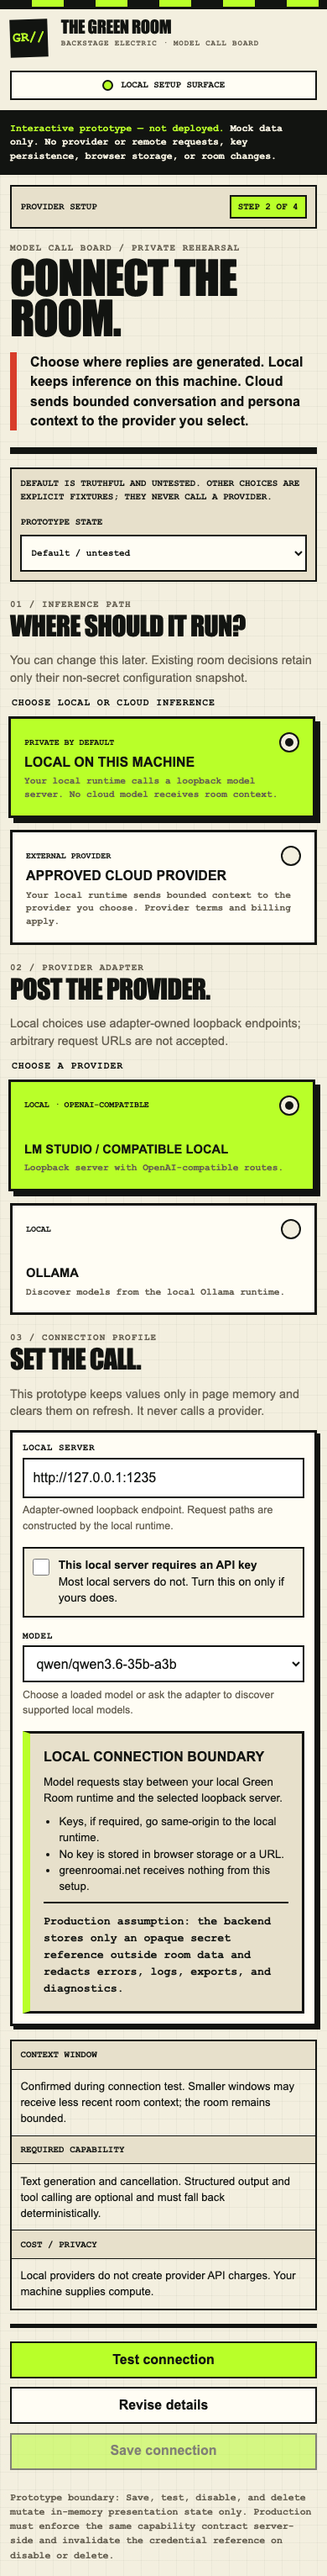
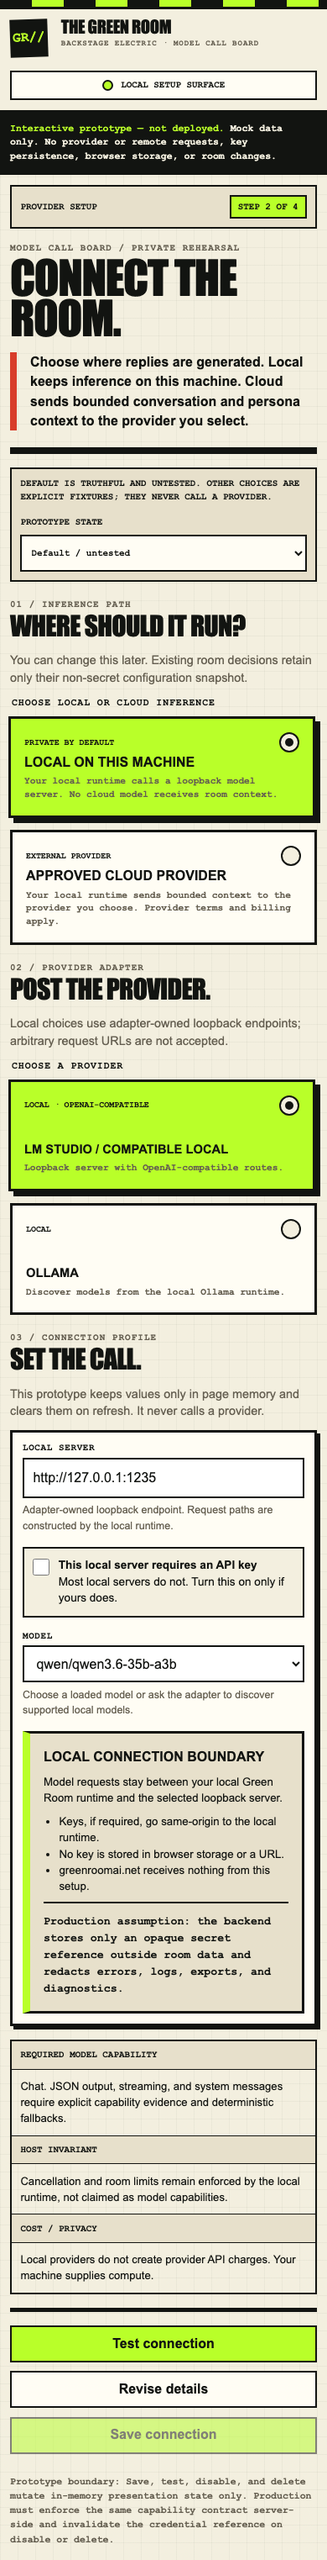
[verified] fix: align provider setup prototype with contracts

diff --git a/design/prototypes/provider-setup/index.html b/design/prototypes/provider-setup/index.html
@@ -35,17 +35,17 @@
 <section class="section" aria-labelledby="provider-title"><div class="section-head"><div><p class="kicker">02 / provider adapter</p><h2 class="section-title" id="provider-title">Post the provider.</h2></div><p class="section-help" id="provider-help">Local choices use adapter-owned loopback endpoints; arbitrary request URLs are not accepted.</p></div><fieldset class="choice-group"><legend>Choose a provider</legend><div class="provider-grid" id="provider-grid">
 <label class="choice" data-path="local"><input type="radio" name="provider" value="lmstudio" checked><span class="choice-top"><span class="choice-kind">Local · OpenAI-compatible</span><span class="radio-dot" aria-hidden="true"></span></span><strong>LM Studio / compatible local</strong><small>Loopback server with OpenAI-compatible routes.</small></label>
 <label class="choice" data-path="local"><input type="radio" name="provider" value="ollama"><span class="choice-top"><span class="choice-kind">Local</span><span class="radio-dot" aria-hidden="true"></span></span><strong>Ollama</strong><small>Discover models from the local Ollama runtime.</small></label>
-<label class="choice" data-path="cloud" hidden><input type="radio" name="provider" value="openai-cloud"><span class="choice-top"><span class="choice-kind">Approved cloud definition</span><span class="radio-dot" aria-hidden="true"></span></span><strong>OpenAI-compatible cloud</strong><small>Known provider definition; no arbitrary request URL.</small></label>
+<label class="choice" data-path="cloud" hidden><input type="radio" name="provider" value="openai-cloud"><span class="choice-top"><span class="choice-kind">Approved cloud definition</span><span class="radio-dot" aria-hidden="true"></span></span><strong>OpenAI</strong><small>Approved OpenAI definition; no arbitrary request URL.</small></label>
 <label class="choice" data-path="cloud" hidden><input type="radio" name="provider" value="anthropic"><span class="choice-top"><span class="choice-kind">Approved cloud definition</span><span class="radio-dot" aria-hidden="true"></span></span><strong>Anthropic</strong><small>Anthropic adapter and supported model IDs.</small></label>
 </div></fieldset></section>
 <section class="section" aria-labelledby="connection-title"><div class="section-head"><div><p class="kicker">03 / connection profile</p><h2 class="section-title" id="connection-title" tabindex="-1">Set the call.</h2></div><p class="section-help">This prototype keeps values only in page memory and clears them on refresh. It never calls a provider.</p></div><div class="setup-card"><div class="fields">
-<div class="field" id="endpoint-field"><label for="endpoint">Local server</label><input id="endpoint" value="http://127.0.0.1:1235" readonly aria-describedby="endpoint-hint"><p class="field-hint" id="endpoint-hint">Adapter-owned loopback endpoint. Request paths are constructed by the local runtime.</p></div>
+<div class="field" id="endpoint-field"><label for="endpoint" id="endpoint-label">Local server</label><input id="endpoint" value="http://127.0.0.1:1235" readonly aria-describedby="endpoint-hint"><p class="field-hint" id="endpoint-hint">Adapter-owned loopback endpoint. Request paths are constructed by the local runtime.</p></div>
 <label class="toggle" id="local-key-toggle"><input id="needs-local-key" type="checkbox"><span><strong>This local server requires an API key</strong><br>Most local servers do not. Turn this on only if yours does.</span></label>
-<div class="field" id="key-field" hidden><label for="provider-key">Local server API key</label><input id="provider-key" type="password" autocomplete="off" spellcheck="false" placeholder="Enter key for this connection test" aria-describedby="key-hint"><p class="field-hint" id="key-hint">Sent same-origin from this locally served page to your local Green Room runtime, then only to the selected provider endpoint. Never sent to greenroomai.net or saved in browser storage.</p></div>
+<div class="field" id="key-field" hidden><label for="provider-key" id="key-label">Local server API key</label><input id="provider-key" type="password" autocomplete="off" spellcheck="false" placeholder="Enter key for this connection test" aria-describedby="key-hint"><p class="field-hint" id="key-hint">Sent same-origin from this locally served page to your local Green Room runtime, then only to the selected provider endpoint. Never sent to greenroomai.net or saved in browser storage.</p></div>
 <div class="field"><label for="model">Model</label><select id="model"><option value="qwen/qwen3.6-35b-a3b">qwen/qwen3.6-35b-a3b</option><option value="discover">Discover loaded models when tested</option></select><p class="field-hint">Choose a loaded model or ask the adapter to discover supported local models.</p></div>
 <label class="toggle" id="cloud-ack-wrap" hidden><input id="cloud-ack" type="checkbox"><span><strong>I understand what leaves this machine.</strong><br>Bounded persona instructions, scene, relevant memory, and recent room transcript may be sent to this cloud provider for replies.</span></label>
 </div><aside class="disclosure local" id="disclosure" aria-labelledby="disclosure-title"><strong id="disclosure-title">Local connection boundary</strong><p id="disclosure-copy">Model requests stay between your local Green Room runtime and the selected loopback server.</p><ul id="disclosure-list"><li>Keys, if required, go same-origin to the local runtime.</li><li>No key is stored in browser storage or a URL.</li><li>greenroomai.net receives nothing from this setup.</li></ul><p class="security-line">Production assumption: the backend stores only an opaque secret reference outside room data and redacts errors, logs, exports, and diagnostics.</p></aside></div>
-<dl class="capability" aria-label="Model capability and cost context"><div class="cap-row"><dt>Context window</dt><dd id="context-result">Confirmed during connection test. Smaller windows may receive less recent room context; the room remains bounded.</dd></div><div class="cap-row"><dt>Required capability</dt><dd>Text generation and cancellation. Structured output and tool calling are optional and must fall back deterministically.</dd></div><div class="cap-row"><dt>Cost / privacy</dt><dd id="cost-result">Local providers do not create provider API charges. Your machine supplies compute.</dd></div></dl>
+<dl class="capability" aria-label="Model capability and cost context"><div class="cap-row"><dt>Required model capability</dt><dd>Chat. JSON output, streaming, and system messages require explicit capability evidence and deterministic fallbacks.</dd></div><div class="cap-row"><dt>Host invariant</dt><dd>Cancellation and room limits remain enforced by the local runtime, not claimed as model capabilities.</dd></div><div class="cap-row"><dt>Cost / privacy</dt><dd id="cost-result">Local providers do not create provider API charges. Your machine supplies compute.</dd></div></dl>
 <div class="result" id="test-result" role="status" aria-live="polite" hidden><span class="result-icon" aria-hidden="true">…</span><div><h3 id="result-title">Testing connection</h3><p id="result-copy">Checking reachability, model availability, and required capabilities with mock data.</p></div></div>
 <div class="actions"><button class="button button-primary" id="test-button" type="button">Test connection</button><button class="button" id="revise-button" type="button">Revise details</button><button class="button button-primary save" id="save-button" type="submit" disabled>Save connection</button></div>
 </section>
@@ -55,13 +55,13 @@
 <dialog id="delete-dialog" aria-labelledby="delete-title" aria-describedby="delete-copy"><div class="confirm"><p class="kicker">Strike this call sheet</p><h2 id="delete-title">Delete connection?</h2><p id="delete-copy">The connection profile and its local credential reference will be removed. Existing non-secret decision snapshots remain readable. Rooms using this connection must choose another model before generating.</p><div class="actions"><button class="button" id="keep-button" type="button">Keep connection</button><button class="button button-danger" id="confirm-delete" type="button">Delete connection</button></div></div></dialog>
 <script>
 (()=>{"use strict";
-const providers={lmstudio:{path:"local",name:"LM Studio / compatible local",endpoint:"http://127.0.0.1:1235",models:[["qwen/qwen3.6-35b-a3b","qwen/qwen3.6-35b-a3b"],["discover","Discover loaded models when tested"]]},ollama:{path:"local",name:"Ollama",endpoint:"http://127.0.0.1:11434",models:[["llama3.2","llama3.2"],["discover","Discover installed models when tested"]]},"openai-cloud":{path:"cloud",name:"OpenAI-compatible cloud",endpoint:"Approved provider definition",models:[["gpt-4.1-mini","gpt-4.1-mini"],["gpt-4.1","gpt-4.1"]]},anthropic:{path:"cloud",name:"Anthropic",endpoint:"Approved Anthropic definition",models:[["claude-sonnet-4-20250514","claude-sonnet-4-20250514"],["claude-opus-4-20250514","claude-opus-4-20250514"]]}};
+const providers={lmstudio:{path:"local",name:"LM Studio / compatible local",endpoint:"http://127.0.0.1:1235",models:[["qwen/qwen3.6-35b-a3b","qwen/qwen3.6-35b-a3b"],["discover","Discover loaded models when tested"]]},ollama:{path:"local",name:"Ollama",endpoint:"http://127.0.0.1:11434",models:[["llama3.2","llama3.2"],["discover","Discover installed models when tested"]]},"openai-cloud":{path:"cloud",name:"OpenAI",endpoint:"Approved OpenAI definition",models:[["gpt-4.1-mini","gpt-4.1-mini"],["gpt-4.1","gpt-4.1"]]},anthropic:{path:"cloud",name:"Anthropic",endpoint:"Approved Anthropic definition",models:[["claude-sonnet-4-20250514","claude-sonnet-4-20250514"],["claude-opus-4-20250514","claude-opus-4-20250514"]]}};
 const state={path:"local",provider:"lmstudio",disabled:false,deleted:false,draftRevision:1,testedRevision:null,pendingToken:null,nextToken:0};
 const q=(s)=>document.querySelector(s),qa=(s)=>[...document.querySelectorAll(s)];
-const endpoint=q("#endpoint"),model=q("#model"),keyField=q("#key-field"),key=q("#provider-key"),needsKey=q("#needs-local-key"),localKeyToggle=q("#local-key-toggle"),cloudAckWrap=q("#cloud-ack-wrap"),cloudAck=q("#cloud-ack"),disclosure=q("#disclosure"),disclosureTitle=q("#disclosure-title"),disclosureCopy=q("#disclosure-copy"),disclosureList=q("#disclosure-list"),result=q("#test-result"),resultTitle=q("#result-title"),resultCopy=q("#result-copy"),resultIcon=result.querySelector(".result-icon"),profile=q("#profile"),saveButton=q("#save-button"),demoState=q("#demo-state"),dialog=q("#delete-dialog");
+const endpoint=q("#endpoint"),endpointLabel=q("#endpoint-label"),endpointHint=q("#endpoint-hint"),model=q("#model"),keyField=q("#key-field"),keyLabel=q("#key-label"),key=q("#provider-key"),needsKey=q("#needs-local-key"),localKeyToggle=q("#local-key-toggle"),cloudAckWrap=q("#cloud-ack-wrap"),cloudAck=q("#cloud-ack"),disclosure=q("#disclosure"),disclosureTitle=q("#disclosure-title"),disclosureCopy=q("#disclosure-copy"),disclosureList=q("#disclosure-list"),result=q("#test-result"),resultTitle=q("#result-title"),resultCopy=q("#result-copy"),resultIcon=result.querySelector(".result-icon"),profile=q("#profile"),saveButton=q("#save-button"),demoState=q("#demo-state"),dialog=q("#delete-dialog");
 function replaceList(items){disclosureList.replaceChildren(...items.map(text=>{const li=document.createElement("li");li.textContent=text;return li}))}
 function fillModels(){model.replaceChildren(...providers[state.provider].models.map(([value,label])=>{const option=document.createElement("option");option.value=value;option.textContent=label;return option}))}
-function renderProvider(){const p=providers[state.provider];endpoint.value=p.endpoint;fillModels();q("#endpoint-field").hidden=false;if(p.path==="local"){localKeyToggle.hidden=false;keyField.hidden=!needsKey.checked;cloudAckWrap.hidden=true;disclosure.className="disclosure local";disclosureTitle.textContent="Local connection boundary";disclosureCopy.textContent="Model requests stay between your local Green Room runtime and the selected loopback server.";replaceList(["Keys, if required, go same-origin to the local runtime.","No key is stored in browser storage or a URL.","greenroomai.net receives nothing from this setup."]);q("#cost-result").textContent="Local providers do not create provider API charges. Your machine supplies compute."}else{localKeyToggle.hidden=true;needsKey.checked=true;keyField.hidden=false;cloudAckWrap.hidden=false;disclosure.className="disclosure cloud";disclosureTitle.textContent="Cloud context disclosure";disclosureCopy.textContent="When this connection generates a reply, your local runtime sends bounded room context directly to the selected cloud provider.";replaceList(["May include persona instructions, scene, relevant memory, and recent transcript.","Provider terms, retention, privacy, and billing apply.","greenroomai.net does not receive or proxy keys, context, or replies."]);q("#cost-result").textContent="Cloud usage may be billed by the selected provider. Review its current pricing and data terms before use."}q("#provider-help").textContent=p.path==="local"?"Local choices use adapter-owned loopback endpoints; arbitrary request URLs are not accepted.":"Cloud choices use approved provider definitions and adapter-built paths; arbitrary request URLs are not accepted."}
+function renderProvider(){const p=providers[state.provider];key.value="";cloudAck.checked=false;needsKey.checked=p.path==="cloud";endpoint.value=p.endpoint;fillModels();q("#endpoint-field").hidden=false;if(p.path==="local"){endpointLabel.textContent="Local server";endpointHint.textContent="Adapter-owned loopback endpoint. Request paths are constructed by the local runtime.";keyLabel.textContent="Local server API key";localKeyToggle.hidden=false;keyField.hidden=true;cloudAckWrap.hidden=true;disclosure.className="disclosure local";disclosureTitle.textContent="Local connection boundary";disclosureCopy.textContent="Model requests stay between your local Green Room runtime and the selected loopback server.";replaceList(["Keys, if required, go same-origin to the local runtime.","No key is stored in browser storage or a URL.","greenroomai.net receives nothing from this setup."]);q("#cost-result").textContent="Local providers do not create provider API charges. Your machine supplies compute."}else{endpointLabel.textContent="Provider definition";endpointHint.textContent="Approved provider definition. Request paths are constructed by the local runtime.";keyLabel.textContent="Provider API key";localKeyToggle.hidden=true;keyField.hidden=false;cloudAckWrap.hidden=false;disclosure.className="disclosure cloud";disclosureTitle.textContent="Cloud context disclosure";disclosureCopy.textContent="When this connection generates a reply, your local runtime sends bounded room context directly to the selected cloud provider.";replaceList(["May include persona instructions, scene, relevant memory, and recent transcript.","Provider terms, retention, privacy, and billing apply.","greenroomai.net does not receive or proxy keys, context, or replies."]);q("#cost-result").textContent="Cloud usage may be billed by the selected provider. Review its current pricing and data terms before use."}q("#provider-help").textContent=p.path==="local"?"Local choices use adapter-owned loopback endpoints; arbitrary request URLs are not accepted.":"Cloud choices use approved provider definitions and adapter-built paths; arbitrary request URLs are not accepted."}
 function isCurrentSuccess(){return state.testedRevision===state.draftRevision}
 function invalidateDraft(){state.draftRevision+=1;state.pendingToken=null;state.testedRevision=null;saveButton.disabled=true;result.hidden=true;demoState.value="default"}
 function choosePath(path,changed=true){state.path=path;qa("[data-path]").forEach(card=>{card.hidden=card.dataset.path!==path;const input=card.querySelector("input");input.disabled=card.hidden});const first=qa(`[data-path="${path}"]`).find(card=>!card.hidden).querySelector("input");if(!providers[state.provider]||providers[state.provider].path!==path){first.checked=true;state.provider=first.value}renderProvider();if(changed)invalidateDraft()}

diff --git a/design/prototypes/provider-setup/DESIGN.md b/design/prototypes/provider-setup/DESIGN.md
@@ -2,7 +2,7 @@
 
 ## Status
 
-This contract covers the standalone prototype at `design/prototypes/provider-setup/index.html`. It is an implementation-ready design exploration, not deployed functionality, an accepted API contract, or permission to wire production provider routes. Kent must approve the direction before implementation handoff.
+This contract covers the standalone prototype at `design/prototypes/provider-setup/index.html`. It is a design exploration aligned to the provider data contracts now on `main`, not deployed functionality, a provider-management API contract, or permission to wire production provider routes. Maintainer approval and a separate route/secret-store handoff are still required before implementation.
 
 The prototype is intentionally self-contained. It uses synthetic labels and in-memory interaction state; it makes no provider request, stores no credential, uses no browser storage, and changes no room or provider record. Its default state is untested: the result and saved-profile preview are hidden and Save is unavailable.
 
@@ -39,7 +39,23 @@ Applied constraints:
 - The ordinary path accepts only adapter-owned loopback endpoints or approved cloud definitions. It does not accept arbitrary provider request URLs, redirects, arbitrary headers, or query-string credentials.
 - Provider credentials are excluded from browser storage, URLs, room SQLite data, events, exports, logs, diagnostics, packs, and decision snapshots.
 - No portrait, historical identity, persona pack, remote font, remote script, or remote asset appears in this prototype.
-- Production wiring waits for Amy’s frozen provider contracts and route handoff.
+- The frozen provider data contracts allow only local adapters `openai-compatible` and `ollama`, approved provider definitions `openai` and `anthropic`, exact positive revision references, and the model capabilities `chat`, `json-output`, `streaming`, and `system-messages`.
+- Production wiring still waits for a provider-management route, persistence, test-evidence, activation/status, and secret-store handoff. Those behaviors are not present in the current data contracts.
+
+## Current provider-contract alignment
+
+The prototype was re-audited against `src/providers/profile-contracts.ts` after the provider-contract merge. Its visible choices map to the closed contract as follows:
+
+| Prototype choice | Current contract target | Adapter evidence |
+| --- | --- | --- |
+| LM Studio / compatible local | `{ class: "local-endpoint", adapter: "openai-compatible" }` | `openai-compatible` |
+| Ollama | `{ class: "local-endpoint", adapter: "ollama" }` | `ollama` |
+| OpenAI | `{ class: "approved-provider", definitionId: "openai" }` | `openai-compatible` |
+| Anthropic | `{ class: "approved-provider", definitionId: "anthropic" }` | `anthropic` |
+
+The endpoint text shown for local choices is adapter-owned presentation data, not a user-editable URL and not a field in the current `ConnectionProfile`. The model test copy treats `chat` as the required model capability. Cancellation remains a host/runtime invariant rather than a `ModelCapability` value.
+
+The current contracts validate non-secret shape and exact revision linkage only: `ConnectionProfile` → `ModelProfile` → `RoomBinding` → immutable `DecisionSnapshot`. They do **not** define connection-test evidence, draft tokens, active/disabled state, deletion, persistence, authorization, or routes. The prototype's test/save/disable/delete behavior is therefore an in-memory UX proposal. Production must add and review those server-enforced lifecycle contracts rather than inferring them from this page.
 
 ## Journey
 
@@ -48,7 +64,7 @@ Entry: local companion onboarding or Settings → Models and providers.
 Happy path:
 
 1. User chooses local or cloud inference.
-2. User chooses LM Studio/OpenAI-compatible local, Ollama, approved OpenAI-compatible cloud, or Anthropic.
+2. User chooses LM Studio/OpenAI-compatible local, Ollama, the approved OpenAI definition, or Anthropic.
 3. The adapter supplies a fixed loopback endpoint or approved cloud definition.
 4. User chooses or discovers a model.
 5. A local user optionally discloses that their loopback server requires a key. A cloud user enters a key and acknowledges which bounded context may leave the machine.
@@ -214,7 +230,7 @@ npm ci
 npm run verify
 ```
 
-The Playwright verifier covers the truthful default, delayed stale-result discard, every invalidating input, save gating, exact-revision success, test failure, no fabricated local/cloud success, key non-rendering, browser-storage absence, request URL/header/body absence, horizontal overflow, console errors, and refreshed default-state screenshots at 1440×1100 and 390×844.
+The Playwright verifier covers the truthful default, delayed stale-result discard, every invalidating input, save gating, exact-revision success, displayed failure fixtures, no fabricated local/cloud success, provider/path secret clearing, truthful cloud labels, disable/delete presentation behavior, native-dialog Escape/focus behavior, key non-rendering, browser-storage absence, request URL/header/body absence, horizontal overflow and 44px controls at 320/390/760/1050/1440px, console errors, and refreshed default-state screenshots at 1440×1100 and 390×844.
 
 ## Implementation inventory and non-goals
 
